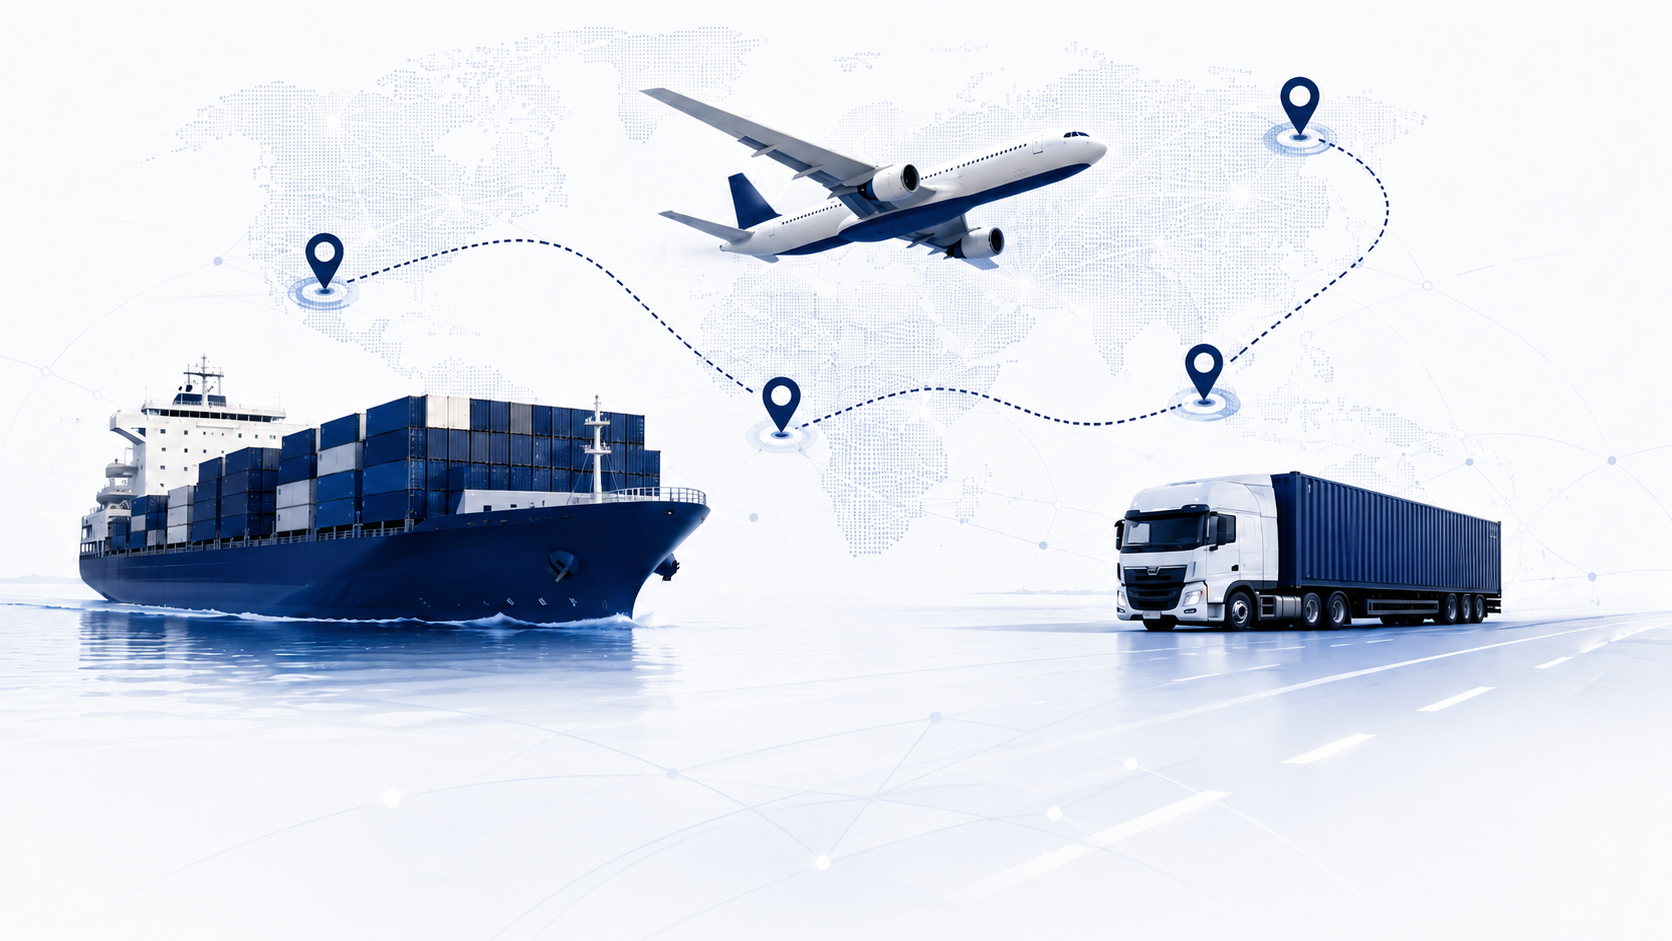
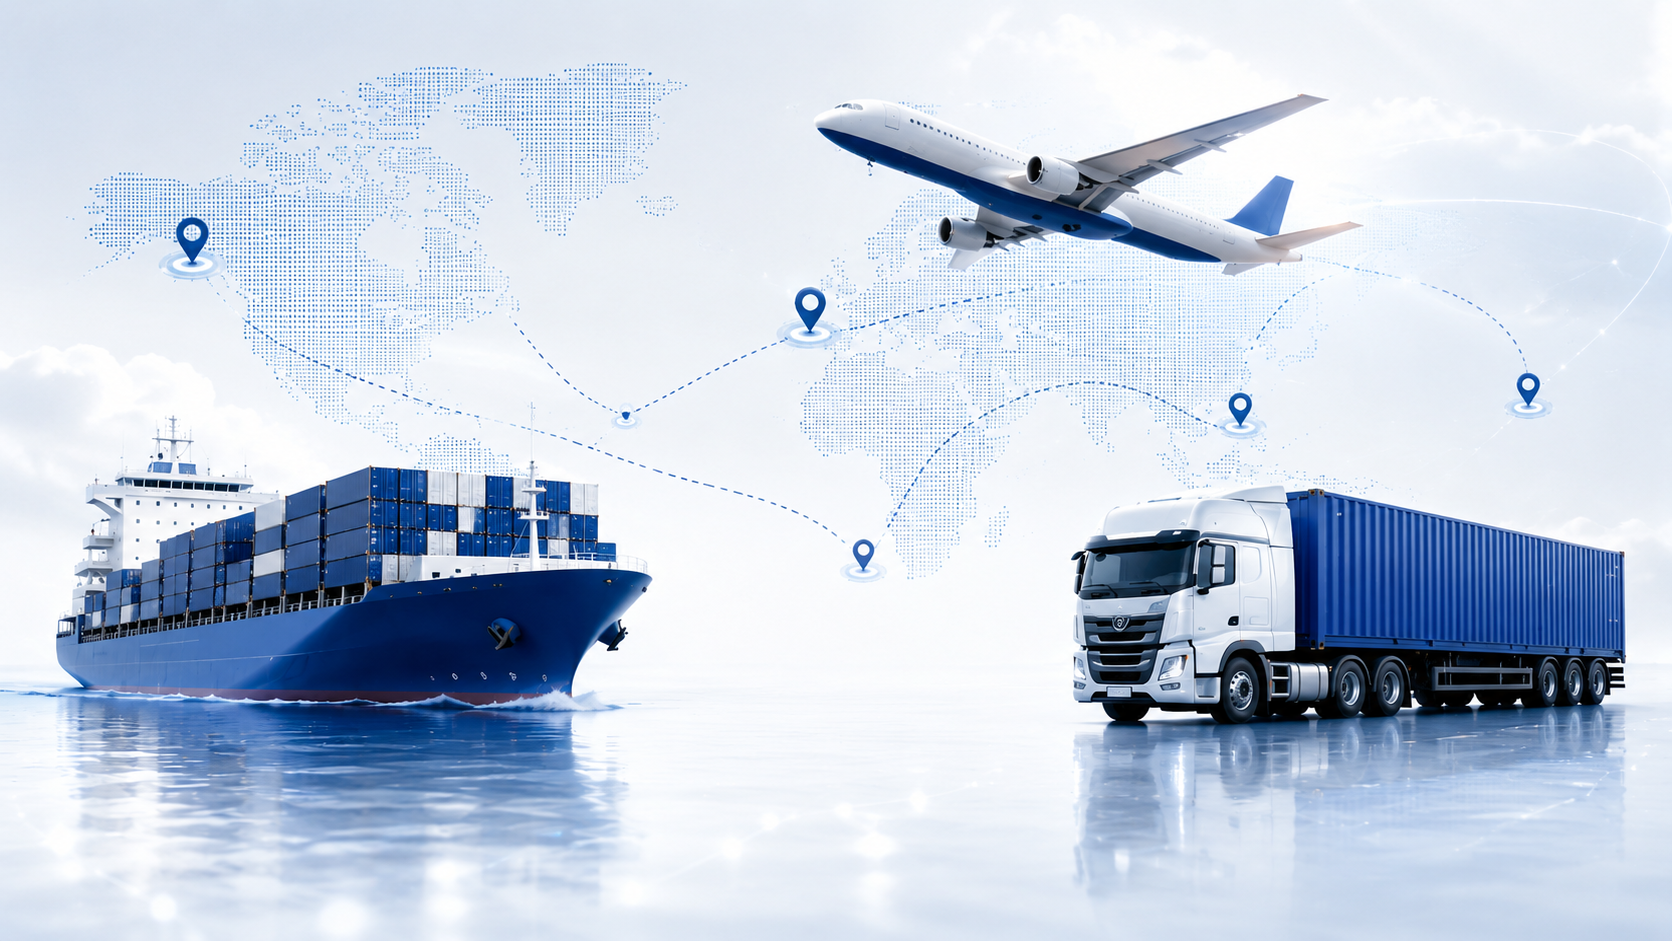
feat(tracking): nueva imagen hero + overlay más sutil
Imagen del hero del tracking:
- Reemplaza tracking-hero.png por la nueva versión (1672x941, 16:9)
  con composición más vibrante: ship contenedor + truck + plane +
  mapa mundial con location pins en navy, todo sobre fondo light
  con sky blue tones.
- Mucho más nítida y representativa del tracking internacional
  que la anterior.

Overlays ajustados:
- Vertical gradient pasa de from-white/40 a /20 — la imagen ya es
  light, no hace falta tapar tanto arriba.
- Horizontal gradient pasa de /65-/20-/65 a /50-transparent-/50 —
  solo aclara los bordes laterales para que el texto del search
  card se lea bien sin perder el motivo central de la imagen.
- Bottom termina en /75 (era /85) para que se vea el reflejo de
  agua/piso al pie sin estar tan tapado.

diff --git a/src/app/tracking/page.tsx b/src/app/tracking/page.tsx
@@ -34,8 +34,11 @@ export default function TrackingPage() {
             priority
             className="object-cover object-center"
           />
-          <div className="absolute inset-0 bg-gradient-to-b from-white/40 via-white/55 to-white/85" />
-          <div className="absolute inset-0 bg-gradient-to-r from-white/65 via-white/20 to-white/65" />
+          {/* Overlays suaves — la nueva imagen tiene mejor contraste y
+              motivos más visibles (ship + plane + truck + mapa con pins),
+              bajamos la opacidad para que se aprecie sin tapar. */}
+          <div className="absolute inset-0 bg-gradient-to-b from-white/20 via-white/40 to-white/75" />
+          <div className="absolute inset-0 bg-gradient-to-r from-white/50 via-transparent to-white/50" />
         </div>
 
         <div className="relative z-10 mx-auto w-full max-w-[1400px] px-5 sm:px-8 lg:px-12">